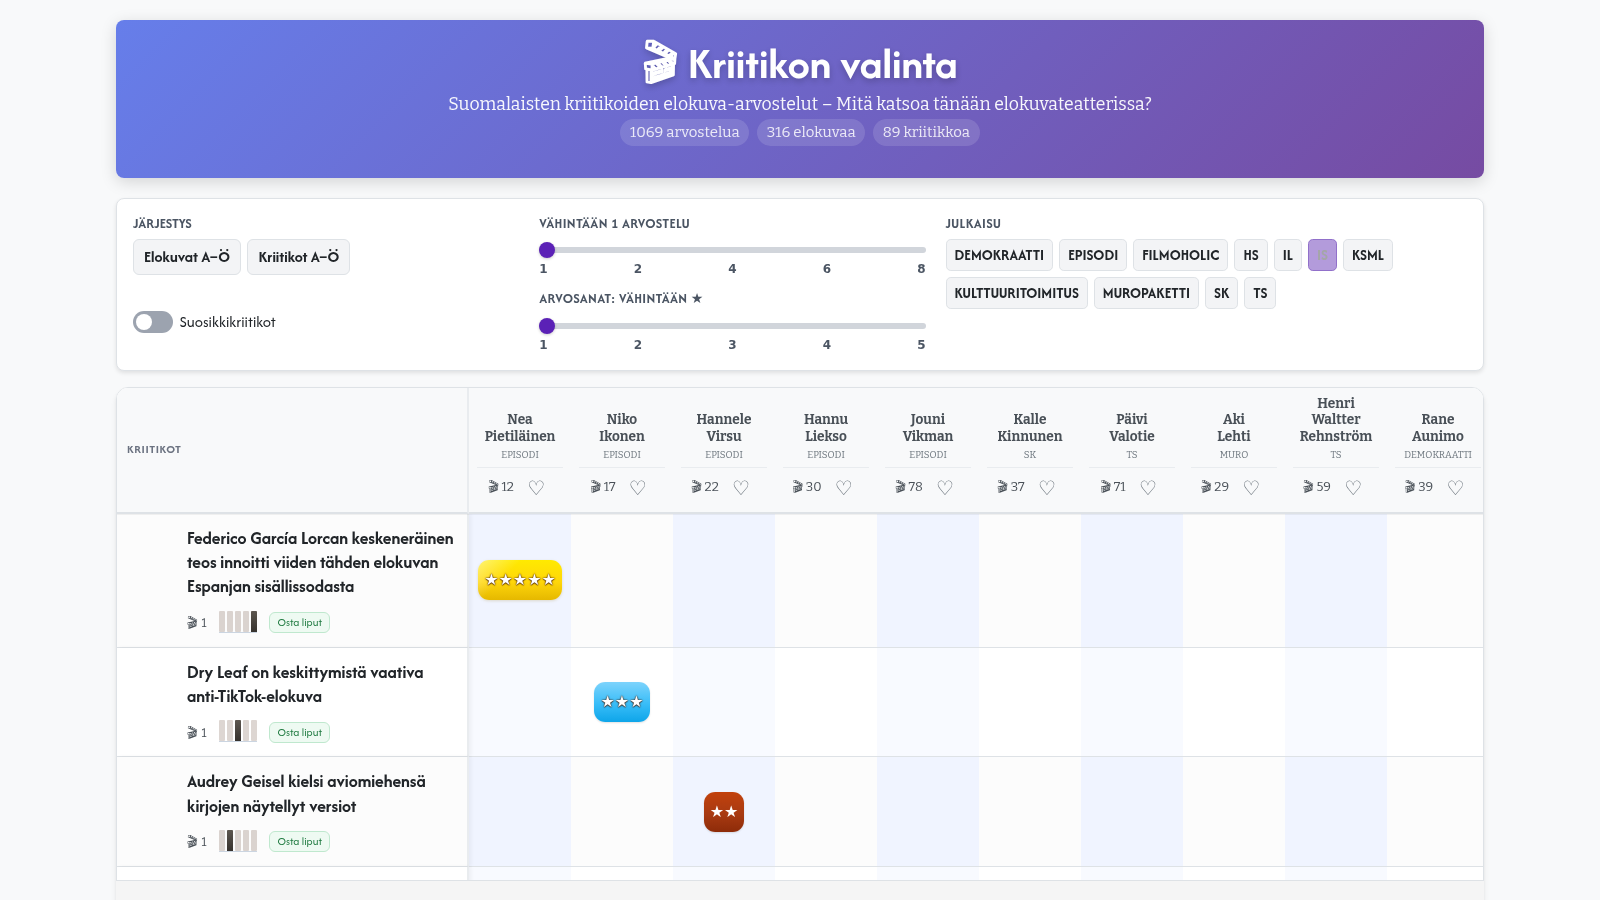
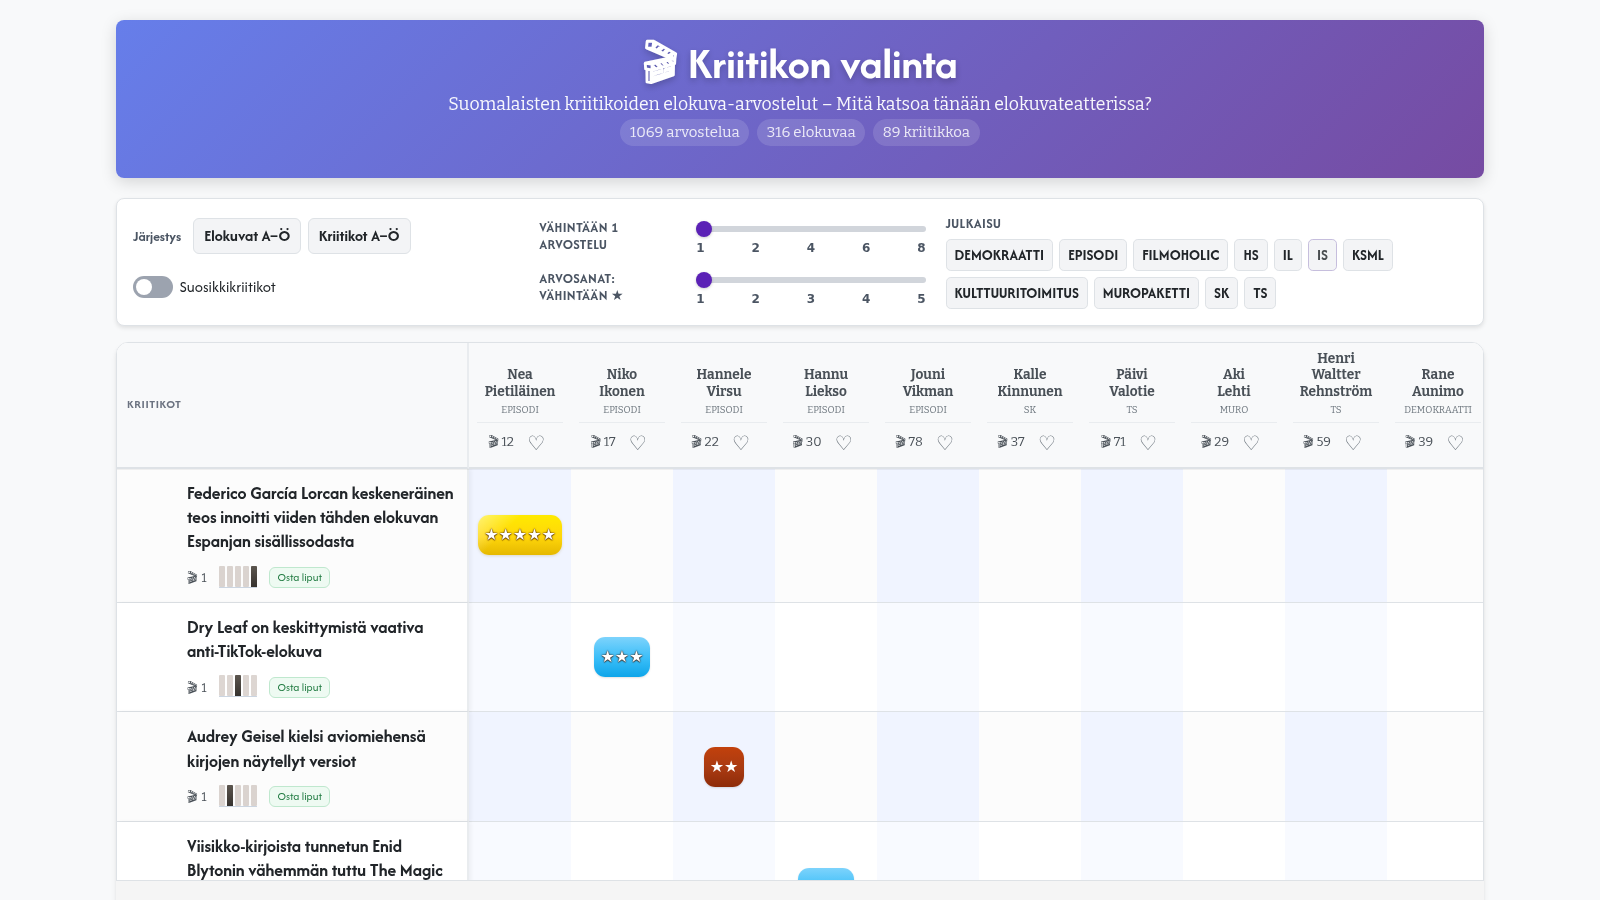
Expose mobile publication names in the accessibility tree

diff --git a/docs/static/app.js b/docs/static/app.js
@@ -845,7 +845,7 @@ function renderMovie(movieTitle, criticsReviewsDict) {
                             <div class="review-critic-top">
                                 <span class="review-critic-name">${escapeHtml(critic.name)}</span>
                             </div>
-                            <div class="review-media" title="${escapeHtml(publicationFullName(review.publication_short || review.source_publication))}" aria-label="${escapeHtml(publicationFullName(review.publication_short || review.source_publication))}">${escapeHtml((review.source_publication || '').toUpperCase())}</div>
+                            <div class="review-media" role="group" title="${escapeHtml(publicationFullName(review.publication_short || review.source_publication))}" aria-label="${escapeHtml(publicationFullName(review.publication_short || review.source_publication))}">${escapeHtml((review.source_publication || '').toUpperCase())}</div>
                         </div>
                         <div class="review-rating">
                             ${review.rating_stars ? createReviewPill(review) : ''}

diff --git a/static/app.js b/static/app.js
@@ -845,7 +845,7 @@ function renderMovie(movieTitle, criticsReviewsDict) {
                             <div class="review-critic-top">
                                 <span class="review-critic-name">${escapeHtml(critic.name)}</span>
                             </div>
-                            <div class="review-media" title="${escapeHtml(publicationFullName(review.publication_short || review.source_publication))}" aria-label="${escapeHtml(publicationFullName(review.publication_short || review.source_publication))}">${escapeHtml((review.source_publication || '').toUpperCase())}</div>
+                            <div class="review-media" role="group" title="${escapeHtml(publicationFullName(review.publication_short || review.source_publication))}" aria-label="${escapeHtml(publicationFullName(review.publication_short || review.source_publication))}">${escapeHtml((review.source_publication || '').toUpperCase())}</div>
                         </div>
                         <div class="review-rating">
                             ${review.rating_stars ? createReviewPill(review) : ''}

diff --git a/templates/_movie_card.html b/templates/_movie_card.html
@@ -42,7 +42,7 @@
                 <div class="review-critic-top">
                     <span class="review-critic-name">{{ critic.name }}</span>
                 </div>
-                <div class="review-media" title="{{ review.publication.short_name|publication_name }}" aria-label="{{ review.publication.short_name|publication_name }}">{{ review.publication.short_name.upper() }}</div>
+                <div class="review-media" role="group" title="{{ review.publication.short_name|publication_name }}" aria-label="{{ review.publication.short_name|publication_name }}">{{ review.publication.short_name.upper() }}</div>
             </div>
             <div class="review-rating">
                 {% if review.rating_stars %}

diff --git a/tests/frontend/publication-labels.test.js b/tests/frontend/publication-labels.test.js
@@ -18,6 +18,7 @@ it('keeps full publication names on lazy-loaded mobile labels', () => {
   win.loadMoreMovies();
   const label = document.querySelector('.review-media');
   expect(label.textContent).toBe('IS');
+  expect(label.getAttribute('role')).toBe('group');
   expect(label.title).toBe('Ilta-Sanomat');
   expect(label.getAttribute('aria-label')).toBe('Ilta-Sanomat');
 });

diff --git a/tests/test_publication_labels.py b/tests/test_publication_labels.py
@@ -30,4 +30,5 @@ def test_filter_chips_and_critic_tags_have_full_names():
         assert label['title'] == publication_names(codes)
         assert label['aria-label'] == publication_names(codes)
     for label in soup.select('.review-media'):
+        assert label['role'] == 'group'
         assert label['title'] == publication_name(label.get_text(strip=True))
